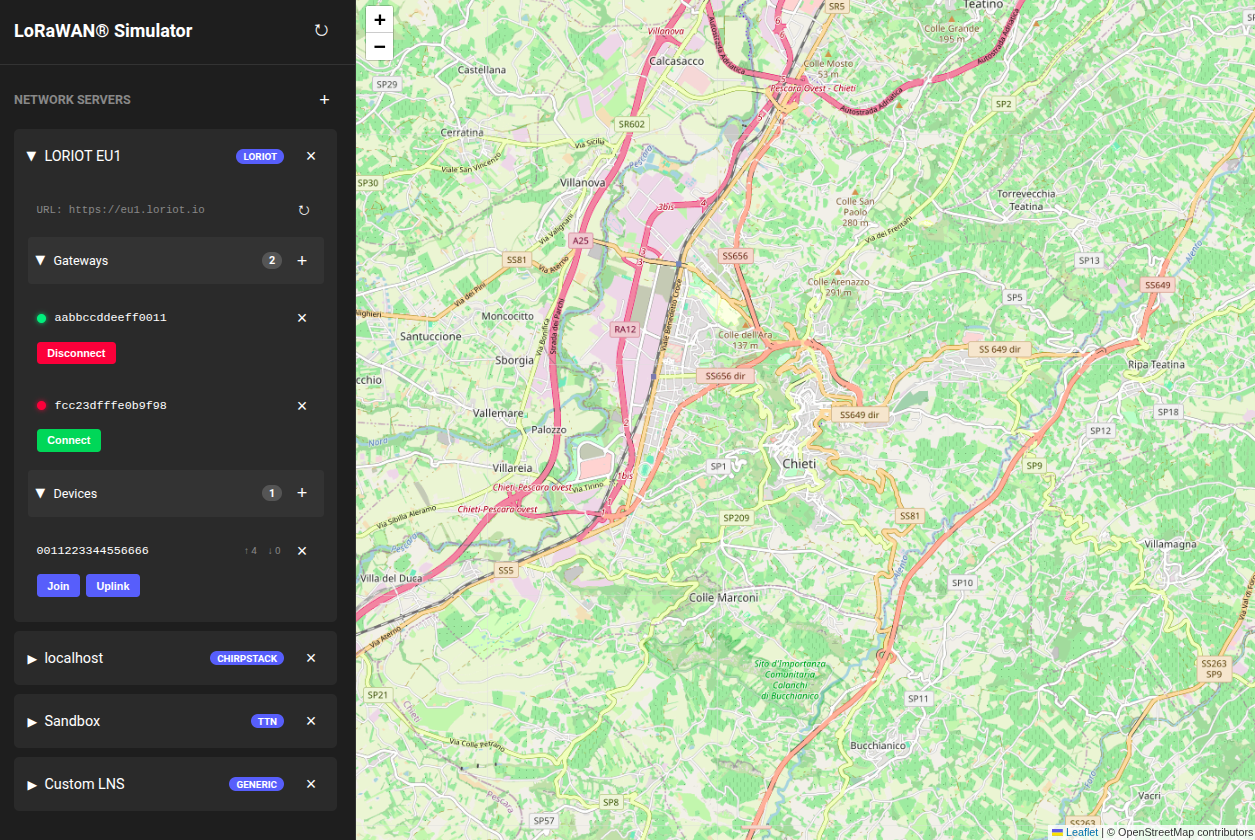
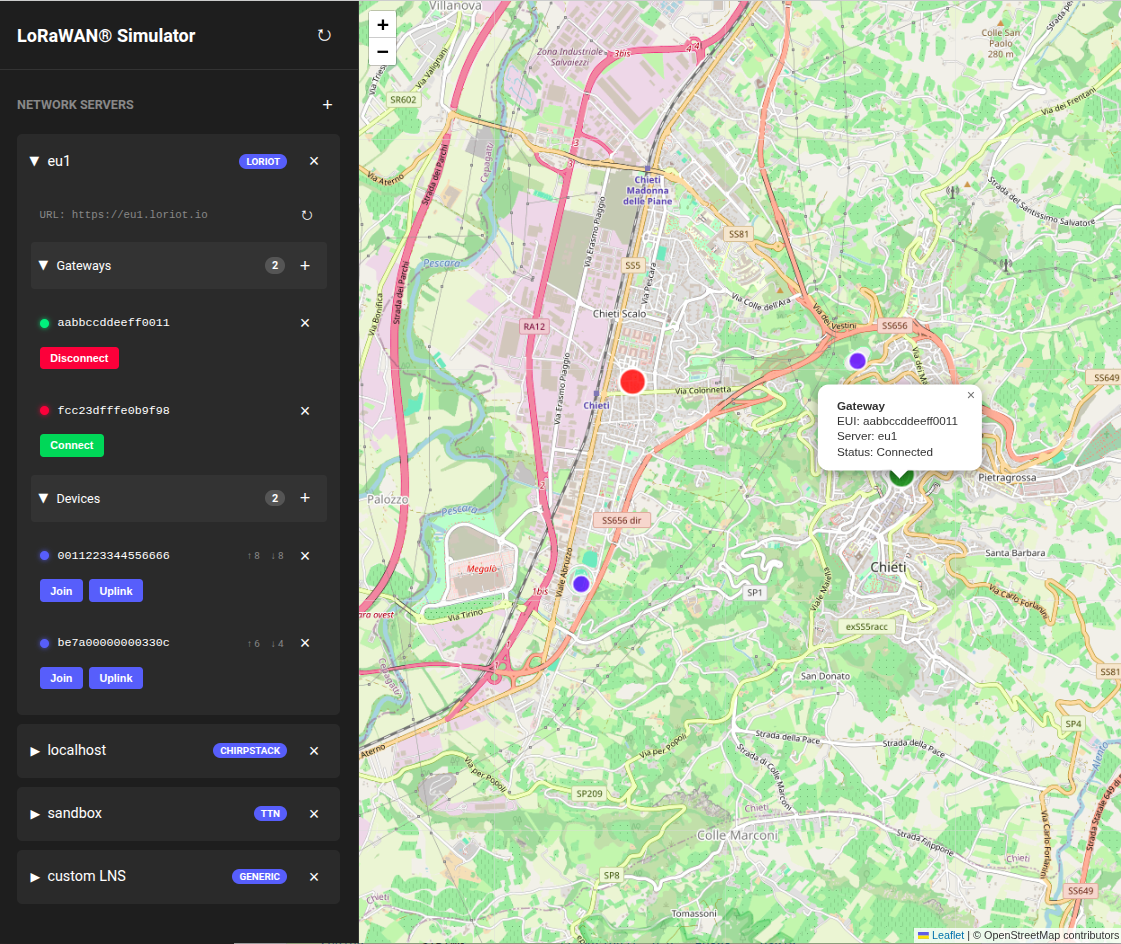
feat: add gateways and devices location

diff --git a/frontend/app.js b/frontend/app.js
@@ -239,6 +239,7 @@ function renderDeviceList(serverName, devices) {
         return `
             <div class="device-item">
                 <div class="device-info">
+                    <div class="status-light blue"></div>
                     <span class="eui">${dev.deveui}</span>
                     <div class="device-stats">
                         <span>↑ ${dev.fcntup}</span>
@@ -269,7 +270,81 @@ function renderGateways() {
     markers.forEach(marker => map.removeLayer(marker));
     markers = [];
     
-    // Note: Map markers are disabled. Location feature will be added later.
+    // Add gateway markers
+    Object.keys(gateways).forEach(serverName => {
+        const serverGateways = gateways[serverName] || [];
+        serverGateways.forEach(gw => {
+            if (gw.location && gw.location.latitude && gw.location.longitude) {
+                // Determine color based on connection state
+                const isConnected = gw.dataState === "connected";
+                const isDisconnected = gw.discoveryState === "disconnected" && gw.dataState === "disconnected";
+                
+                let color = 'orange'; // default for other states
+                if (isConnected) {
+                    color = 'green';
+                } else if (isDisconnected) {
+                    color = 'red';
+                }
+                
+                // Create circle marker
+                const marker = L.circleMarker([gw.location.latitude, gw.location.longitude], {
+                    radius: 15,
+                    fillColor: color,
+                    color: '#fff',
+                    weight: 3,
+                    opacity: 1,
+                    fillOpacity: 0.8
+                });
+                
+                // Add popup with gateway info
+                marker.bindPopup(`
+                    <strong>Gateway</strong><br>
+                    EUI: ${gw.eui}<br>
+                    Server: ${serverName}<br>
+                    Status: ${isConnected ? 'Connected' : isDisconnected ? 'Disconnected' : 'Connecting'}
+                `);
+                
+                marker.addTo(map);
+                markers.push(marker);
+            }
+        });
+    });
+    
+    // Add device markers
+    Object.keys(devices).forEach(serverName => {
+        const serverDevices = devices[serverName] || [];
+        serverDevices.forEach(dev => {
+            if (dev.location && dev.location.latitude && dev.location.longitude) {
+                // Create blue circle marker for devices
+                const marker = L.circleMarker([dev.location.latitude, dev.location.longitude], {
+                    radius: 10,
+                    fillColor: 'blue',
+                    color: '#fff',
+                    weight: 2,
+                    opacity: 1,
+                    fillOpacity: 0.8
+                });
+                
+                // Add popup with device info
+                marker.bindPopup(`
+                    <strong>Device</strong><br>
+                    DevEUI: ${dev.deveui}<br>
+                    Server: ${serverName}<br>
+                    FCntUp: ${dev.fcntup}<br>
+                    FCntDn: ${dev.fcntdn}
+                `);
+                
+                marker.addTo(map);
+                markers.push(marker);
+            }
+        });
+    });
+    
+    // Auto-fit map bounds if there are markers
+    if (markers.length > 0) {
+        const group = L.featureGroup(markers);
+        map.fitBounds(group.getBounds().pad(0.1));
+    }
 }
 
 // Toggle functions

diff --git a/frontend/index.html b/frontend/index.html
@@ -235,6 +235,11 @@
             box-shadow: 0 0 6px #fbbf24;
         }
 
+        .status-light.blue {
+            background-color: #3b82f6;
+            box-shadow: 0 0 6px #3b82f6;
+        }
+
         .eui {
             font-family: 'Courier New', monospace;
             flex: 1;

diff --git a/backend/internal/networkserver/networkserver.go b/backend/internal/networkserver/networkserver.go
@@ -64,6 +64,10 @@ func (ns *NetworkServer) GetInfo() NetworkServerInfo {
 // Gateway management methods
 
 func (ns *NetworkServer) AddGateway(EUI lorawan.EUI64, discoveryURI string, headers ...http.Header) (*gateway.Gateway, error) {
+	return ns.AddGatewayWithLocation(EUI, discoveryURI, nil, headers...)
+}
+
+func (ns *NetworkServer) AddGatewayWithLocation(EUI lorawan.EUI64, discoveryURI string, location *gateway.Location, headers ...http.Header) (*gateway.Gateway, error) {
 	ns.mu.Lock()
 	defer ns.mu.Unlock()
 
@@ -77,7 +81,7 @@ func (ns *NetworkServer) AddGateway(EUI lorawan.EUI64, discoveryURI string, head
 		h = headers[0]
 	}
 
-	ns.gateways[EUI] = gateway.New(ns.broadcastDownlink, EUI, discoveryURI, h)
+	ns.gateways[EUI] = gateway.NewWithLocation(ns.broadcastDownlink, EUI, discoveryURI, h, location)
 	return ns.gateways[EUI], nil
 }
 
@@ -156,6 +160,21 @@ func (ns *NetworkServer) AddDevice(
 	FCntUp uint32,
 	FCntDn uint32,
 ) (*device.Device, error) {
+	return ns.AddDeviceWithLocation(DevEUI, JoinEUI, AppKey, DevNonce, DevAddr, AppSKey, NwkSKey, FCntUp, FCntDn, nil)
+}
+
+func (ns *NetworkServer) AddDeviceWithLocation(
+	DevEUI lorawan.EUI64,
+	JoinEUI lorawan.EUI64,
+	AppKey lorawan.AES128Key,
+	DevNonce lorawan.DevNonce,
+	DevAddr lorawan.DevAddr,
+	AppSKey lorawan.AES128Key,
+	NwkSKey lorawan.AES128Key,
+	FCntUp uint32,
+	FCntDn uint32,
+	location *device.Location,
+) (*device.Device, error) {
 	ns.mu.Lock()
 	defer ns.mu.Unlock()
 
@@ -163,7 +182,7 @@ func (ns *NetworkServer) AddDevice(
 		return nil, errors.New("device already exists")
 	}
 
-	ns.devices[DevEUI] = device.New(ns.broadcastUplink, DevEUI, JoinEUI, AppKey, DevNonce, DevAddr, AppSKey, NwkSKey, FCntUp, FCntDn)
+	ns.devices[DevEUI] = device.NewWithLocation(ns.broadcastUplink, DevEUI, JoinEUI, AppKey, DevNonce, DevAddr, AppSKey, NwkSKey, FCntUp, FCntDn, location)
 	return ns.devices[DevEUI], nil
 }
 
@@ -332,7 +351,7 @@ func (ns *NetworkServer) Sync() error {
 
 	// Add new gateways
 	for _, gw := range gwsToAdd {
-		_, err := ns.AddGateway(gw.EUI, gw.DiscoveryURI, gw.Headers)
+		_, err := ns.AddGatewayWithLocation(gw.EUI, gw.DiscoveryURI, gw.Location, gw.Headers)
 		if err != nil {
 			log.Printf("[%s] unable to add gateway %s: %v", ns.name, gw.EUI, err)
 		}
@@ -371,7 +390,7 @@ func (ns *NetworkServer) Sync() error {
 
 	// Add new devices
 	for _, dev := range devsToAdd {
-		_, err := ns.AddDevice(dev.DevEUI, dev.JoinEUI, dev.AppKey, dev.DevNonce, dev.DevAddr, dev.AppSKey, dev.NwkSKey, dev.FCntUp, dev.FCntDn)
+		_, err := ns.AddDeviceWithLocation(dev.DevEUI, dev.JoinEUI, dev.AppKey, dev.DevNonce, dev.DevAddr, dev.AppSKey, dev.NwkSKey, dev.FCntUp, dev.FCntDn, dev.Location)
 		if err != nil {
 			log.Printf("[%s] unable to add device %s: %v", ns.name, dev.DevEUI, err)
 		}

diff --git a/backend/internal/integration/loriot.go b/backend/internal/integration/loriot.go
@@ -36,8 +36,12 @@ type loriotStatusResponse struct {
 
 type loriotGatewayResponse struct {
 	Gateways []struct {
-		EUI  string `json:"EUI"`
-		Base string `json:"base"`
+		EUI      string `json:"EUI"`
+		Base     string `json:"base"`
+		Location struct {
+			Lat float64 `json:"lat"`
+			Lon float64 `json:"lon"`
+		} `json:"location"`
 	} `json:"gateways"`
 	Page    int `json:"page"`
 	PerPage int `json:"perPage"`
@@ -102,10 +106,21 @@ func (c *LORIOTClient) ListGateways() ([]gateway.GatewayInfo, error) {
 				}
 				log.Printf("[LORIOT] found gateway %s", eui)
 
-				allGateways = append(allGateways, gateway.GatewayInfo{
+				gwInfo := gateway.GatewayInfo{
 					EUI:          eui,
 					DiscoveryURI: discoveryURI,
-				})
+				}
+
+				// Add location if available
+				if gw.Location.Lat != 0 || gw.Location.Lon != 0 {
+					gwInfo.Location = &gateway.Location{
+						Latitude:  gw.Location.Lat,
+						Longitude: gw.Location.Lon,
+					}
+					log.Printf("[LORIOT] gateway %s has location: lat=%f, lon=%f", eui, gw.Location.Lat, gw.Location.Lon)
+				}
+
+				allGateways = append(allGateways, gwInfo)
 			}
 		}
 
@@ -275,6 +290,10 @@ func (c *LORIOTClient) getDeviceDetails(devEUI string) (device.DeviceInfo, error
 		LastDevNonces []uint16 `json:"lastDevNonces"`
 		SeqNo         int      `json:"seqno"`
 		SeqDn         int      `json:"seqdn"`
+		Location      struct {
+			Lat float64 `json:"lat"`
+			Lon float64 `json:"lon"`
+		} `json:"location"`
 	}
 
 	if err := json.NewDecoder(resp.Body).Decode(&loriotDevice); err != nil {
@@ -347,7 +366,7 @@ func (c *LORIOTClient) getDeviceDetails(devEUI string) (device.DeviceInfo, error
 	log.Printf("[LORIOT] Returning device info - DevAddr: %s, AppSKey: %s (parsed: %x), NwkSKey: %s (parsed: %x), FCntUp: %d, FCntDn: %d",
 		devAddr, loriotDevice.AppSKey, appSKey[:], loriotDevice.NwkSKey, nwkSKey[:], fcntUp, fcntDn)
 
-	return device.DeviceInfo{
+	deviceInfo := device.DeviceInfo{
 		DevEUI:   parsedDevEUI,
 		JoinEUI:  joinEUI,
 		AppKey:   appKey,
@@ -357,7 +376,18 @@ func (c *LORIOTClient) getDeviceDetails(devEUI string) (device.DeviceInfo, error
 		NwkSKey:  nwkSKey,
 		FCntUp:   fcntUp,
 		FCntDn:   fcntDn,
-	}, nil
+	}
+
+	// Add location if available
+	if loriotDevice.Location.Lat != 0 || loriotDevice.Location.Lon != 0 {
+		deviceInfo.Location = &device.Location{
+			Latitude:  loriotDevice.Location.Lat,
+			Longitude: loriotDevice.Location.Lon,
+		}
+		log.Printf("[LORIOT] device %s has location: lat=%f, lon=%f", devEUI, loriotDevice.Location.Lat, loriotDevice.Location.Lon)
+	}
+
+	return deviceInfo, nil
 }
 
 func (c *LORIOTClient) CreateDevice(devEUI lorawan.EUI64, joinEUI lorawan.EUI64, appKey lorawan.AES128Key) error {

diff --git a/backend/internal/gateway/gateway.go b/backend/internal/gateway/gateway.go
@@ -9,6 +9,11 @@ import (
 	"github.com/gorilla/websocket"
 )
 
+type Location struct {
+	Latitude  float64 `json:"latitude"`
+	Longitude float64 `json:"longitude"`
+}
+
 type Gateway struct {
 	eui               lorawan.EUI64
 	discoveryURI      string
@@ -19,6 +24,7 @@ type Gateway struct {
 	dataDone          chan struct{}
 	dataSendCh        chan string
 	headers           http.Header
+	location          *Location
 	mu                sync.RWMutex
 	broadcastDownlink chan<- lorawan.PHYPayload
 }
@@ -30,6 +36,7 @@ type GatewayInfo struct {
 	DataURI        string          `json:"dataUri"`
 	DataState      string          `json:"dataState"`
 	Headers        http.Header     `json:"headers,omitempty"`
+	Location       *Location       `json:"location,omitempty"`
 }
 
 func New(broadcastDownlink chan<- lorawan.PHYPayload, EUI lorawan.EUI64, discoveryURI string, headers http.Header) *Gateway {
@@ -40,6 +47,20 @@ func New(broadcastDownlink chan<- lorawan.PHYPayload, EUI lorawan.EUI64, discove
 		dataURI:           "",
 		dataState:         StateDisconnected,
 		headers:           headers,
+		location:          nil,
+		broadcastDownlink: broadcastDownlink,
+	}
+}
+
+func NewWithLocation(broadcastDownlink chan<- lorawan.PHYPayload, EUI lorawan.EUI64, discoveryURI string, headers http.Header, location *Location) *Gateway {
+	return &Gateway{
+		eui:               EUI,
+		discoveryURI:      discoveryURI,
+		discoveryState:    StateDisconnected,
+		dataURI:           "",
+		dataState:         StateDisconnected,
+		headers:           headers,
+		location:          location,
 		broadcastDownlink: broadcastDownlink,
 	}
 }
@@ -55,6 +76,7 @@ func (g *Gateway) GetInfo() GatewayInfo {
 		DataURI:        g.dataURI,
 		DataState:      g.dataState.String(),
 		Headers:        g.headers,
+		Location:       g.location,
 	}
 }
 

diff --git a/backend/internal/device/device.go b/backend/internal/device/device.go
@@ -10,6 +10,11 @@ import (
 	"github.com/brocaar/lorawan"
 )
 
+type Location struct {
+	Latitude  float64 `json:"latitude"`
+	Longitude float64 `json:"longitude"`
+}
+
 type Device struct {
 	DevEUI   lorawan.EUI64
 	JoinEUI  lorawan.EUI64
@@ -23,6 +28,7 @@ type Device struct {
 	FCntUp uint32
 	FCntDn uint32
 
+	location        *Location
 	mu              sync.RWMutex
 	broadcastUplink chan<- lorawan.PHYPayload
 }
@@ -37,8 +43,9 @@ type DeviceInfo struct {
 	AppSKey lorawan.AES128Key `json:"appskey"`
 	NwkSKey lorawan.AES128Key `json:"nwkskey"`
 
-	FCntUp uint32 `json:"fcntup"`
-	FCntDn uint32 `json:"fcntdn"`
+	FCntUp   uint32    `json:"fcntup"`
+	FCntDn   uint32    `json:"fcntdn"`
+	Location *Location `json:"location,omitempty"`
 }
 
 func New(broadcastUplink chan<- lorawan.PHYPayload,
@@ -63,6 +70,34 @@ func New(broadcastUplink chan<- lorawan.PHYPayload,
 		NwkSKey:         NwkSKey,
 		FCntUp:          FCntUp,
 		FCntDn:          FCntDn,
+		location:        nil,
+	}
+}
+
+func NewWithLocation(broadcastUplink chan<- lorawan.PHYPayload,
+	DevEUI lorawan.EUI64,
+	JoinEUI lorawan.EUI64,
+	AppKey lorawan.AES128Key,
+	DevNonce lorawan.DevNonce,
+	DevAddr lorawan.DevAddr,
+	AppSKey lorawan.AES128Key,
+	NwkSKey lorawan.AES128Key,
+	FCntUp uint32,
+	FCntDn uint32,
+	location *Location,
+) *Device {
+	return &Device{
+		broadcastUplink: broadcastUplink,
+		DevEUI:          DevEUI,
+		JoinEUI:         JoinEUI,
+		AppKey:          AppKey,
+		DevNonce:        DevNonce,
+		DevAddr:         DevAddr,
+		AppSKey:         AppSKey,
+		NwkSKey:         NwkSKey,
+		FCntUp:          FCntUp,
+		FCntDn:          FCntDn,
+		location:        location,
 	}
 }
 
@@ -80,6 +115,7 @@ func (d *Device) GetInfo() DeviceInfo {
 		NwkSKey:  d.NwkSKey,
 		FCntUp:   d.FCntUp,
 		FCntDn:   d.FCntDn,
+		Location: d.location,
 	}
 }
 
